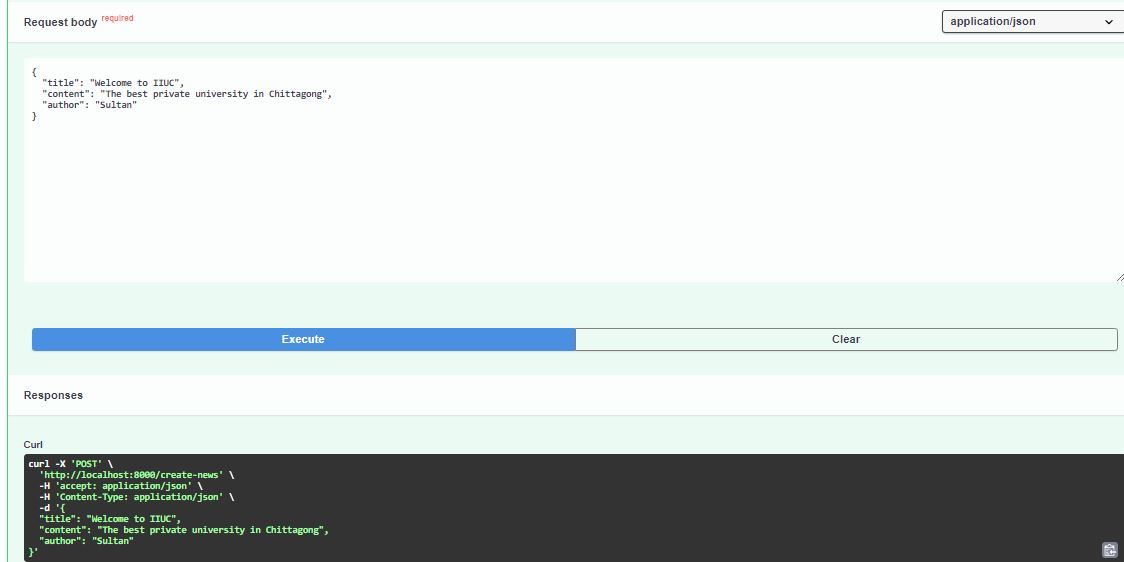
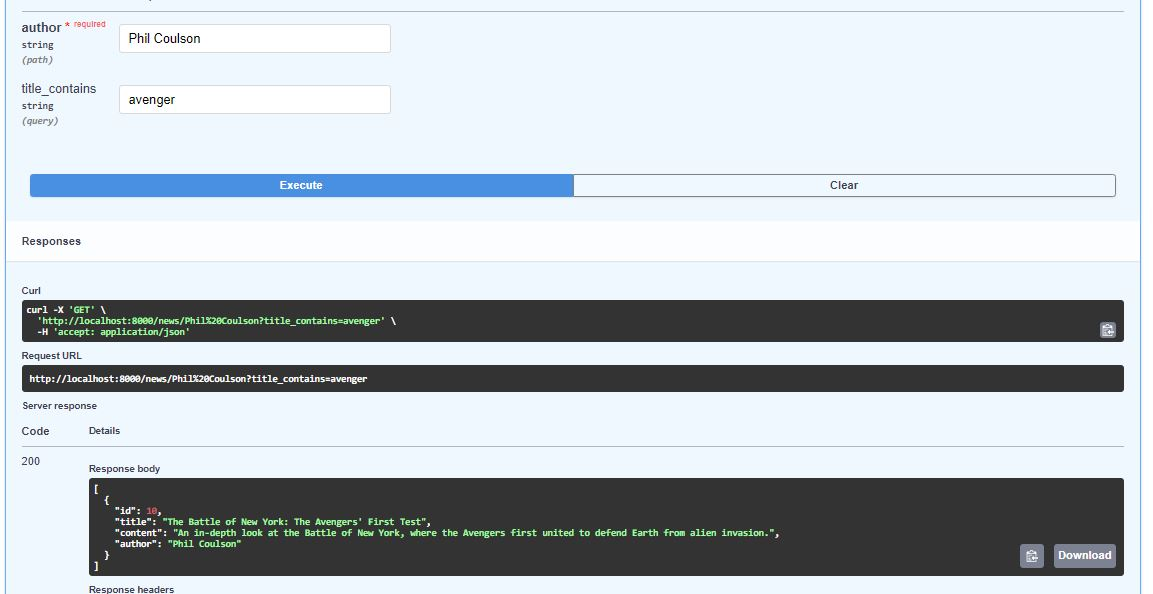
fastapi-changes

Changed region(s): [[0.0, 0.0, 1.0, 1.0]]

diff --git a/session-2/fastapi-hands-on/basic.py b/session-2/fastapi-hands-on/basic.py
@@ -9,31 +9,74 @@ news = {
     1:
     {
         "id": 1,
-        "title": "Top 10 programming languages",
-        "content": "Python is the most popular programming language according to the TIOBE index. Other popular",
-        "author": "Arman"
+        "title": "The Formation of the Avengers: Earth's Mightiest Heroes",
+        "content": "A look into how the Avengers were formed, bringing together a team of superheroes to protect Earth.",
+        "author": "Nick Fury"
     },
     2:
     {
         "id": 2,
-        "title": "LLM race in modern era",
-        "content": "Content on modern LLM models both close & open source",
-        "author": "Ibrahim"
+        "title": "Iron Man: The Genius, Billionaire, Playboy, Philanthropist",
+        "content": "Exploring the journey of Tony Stark from a billionaire playboy to the armored hero, Iron Man.",
+        "author": "Pepper Potts"
     },
     3:
     {
         "id": 3,
-        "title": "Latest LLM models from Mistral!!!",
-        "content": "ontent on modern LLM models both close & oper",
-        "author": "Sultan"
+        "title": "The Legacy of Captain America",
+        "content": "The story of Steve Rogers, the super-soldier who became the symbol of hope and justice as Captain America.",
+        "author": "Bucky Barnes"
     },
     4:
     {
         "id": 4,
-        "title": "What's the Google calls on LLM!!",
-        "content": "ontent on modern LLM models both close & ope",
-        "author": "Sultan"
+        "title": "The Incredible Hulk: Strength and Struggle",
+        "content": "An analysis of Bruce Banner's transformation into the Hulk and his struggle to control his immense power.",
+        "author": "Betty Ross"
     },
+    5:
+    {
+        "id": 5,
+        "title": "The Enigmatic Black Widow",
+        "content": "Delving into the past and skills of Natasha Romanoff, the Black Widow, and her role in the Avengers.",
+        "author": "Clint Barton"
+    },
+    6:
+    {
+        "id": 6,
+        "title": "Thor: The God of Thunder",
+        "content": "Exploring Thor's journey from Asgardian prince to Avenger, and his battles to protect both Earth and Asgard.",
+        "author": "Jane Foster"
+    },
+    7:
+    {
+        "id": 7,
+        "title": "Hawkeye: The Sharpest Shooter",
+        "content": "A closer look at Clint Barton, the master archer known as Hawkeye, and his contributions to the Avengers.",
+        "author": "Laura Barton"
+    },
+    8:
+    {
+        "id": 8,
+        "title": "The Rise of the Scarlet Witch",
+        "content": "Exploring Wanda Maximoff's transformation into the Scarlet Witch and her powerful abilities.",
+        "author": "Vision"
+    },
+    9:
+    {
+        "id": 9,
+        "title": "Vision: The Synthetic Avenger",
+        "content": "The creation and evolution of Vision, the android Avenger with a mind and heart of his own.",
+        "author": "Wanda Maximoff"
+    },
+    10:
+    {
+        "id": 10,
+        "title": "The Battle of New York: The Avengers' First Test",
+        "content": "An in-depth look at the Battle of New York, where the Avengers first united to defend Earth from alien invasion.",
+        "author": "Phil Coulson"
+    }
+
 }
 
 
@@ -45,8 +88,11 @@ class News(BaseModel):
 
 @app.get("/")
 def hearbeat():
-    return {"message": "Hey! What's up?"}
+    return {"message": "I'm up and running and shouting!"}
 
+@app.get("/news")
+def all_news():
+    return news
 
 
 @app.get("/news")
@@ -71,9 +117,6 @@ def news_filter_by_author_title(author: str, title_contains: str = None):
             return {"data": f"No news found from author {author} with title containing {title_contains}"}
     return filtered_news
 
-@app.get("/news")
-def all_news():
-    return news
 
 
 @app.get("/news/{id}")
